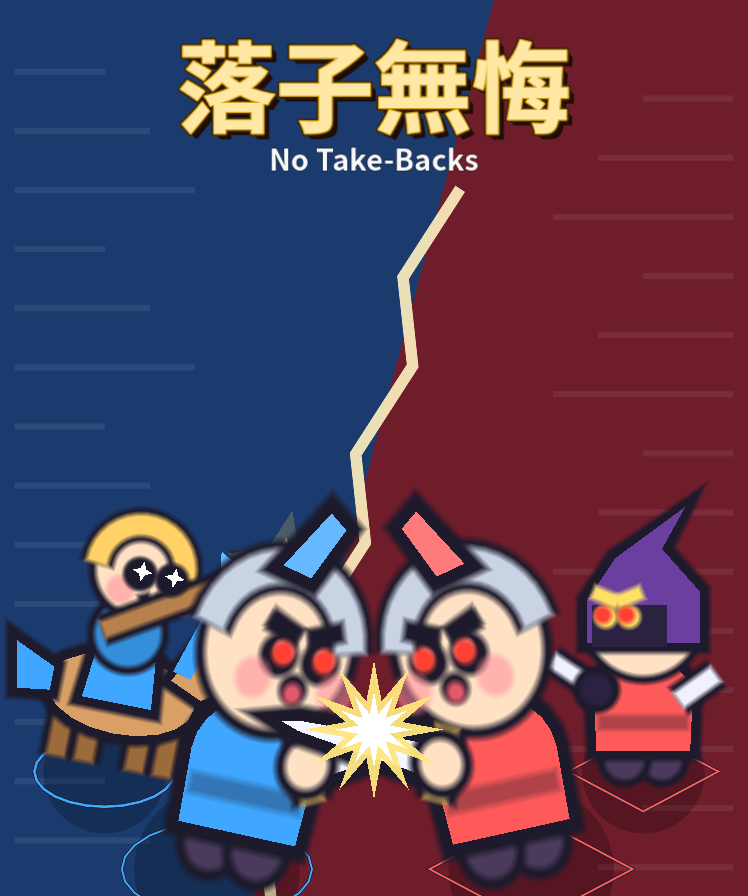
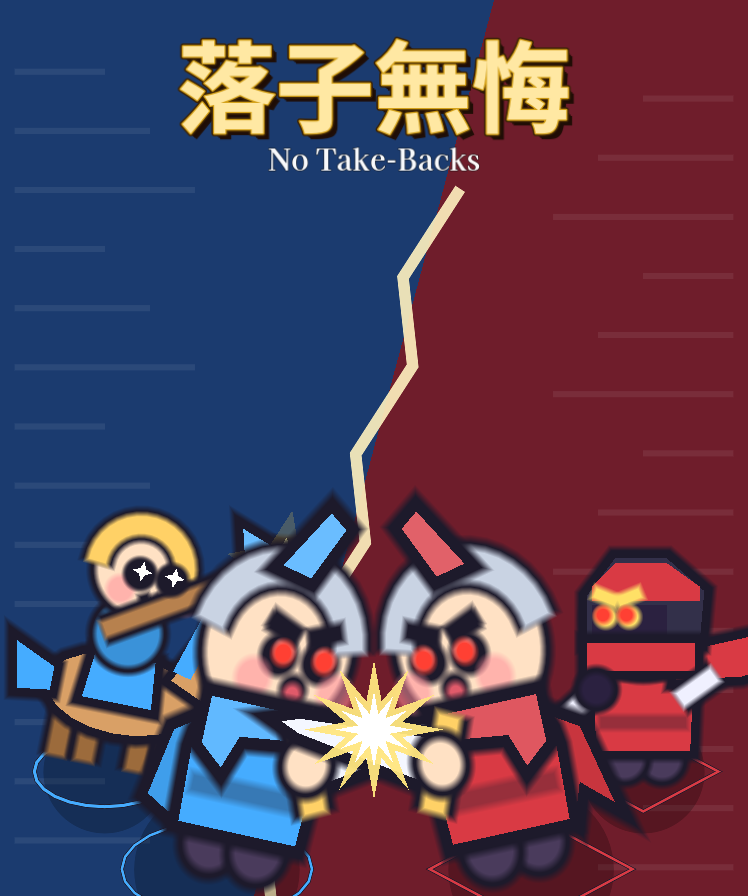
第七輪實作審查第 1 輪修正（Codex 不可）：跳轉與返回交錯、評分還原、覆盤世代、暫停跳結果、保留鍵、完整測試清單；英文標題溢出、殘局標籤；重產膠囊圖
Claude-Session: https://claude.ai/code/session_01XBTCy99wND5CaAY6MHW1Sg

diff --git a/docs/2026-11-04-grand-optimization-plan-v7.md b/docs/2026-11-04-grand-optimization-plan-v7.md
@@ -1,4 +1,4 @@
-# 《落子無悔》第七輪：綜合大優化方案（v1.0 定稿，三方兩輪，未實作）
+# 《落子無悔》第七輪：綜合大優化方案（三方兩輪定稿；實作進度見 §20）
 
 > 使用者 11/04：「列出所有能夠優化的三方討論，包括功能優化、程式碼、美化、排版、文字細節、檔案整理、角色優化……可以查資料，先不實作，給我綜合完整版大優化。」
 > 標記：〔C〕Claude、〔X〕Codex、〔G〕Antigravity、〔使用者〕。成本 S＝半天內、M＝1～2 天、L＝3 天以上。優先 P0＝上架前一定要、P1＝明顯加分、P2＝有空再做。
@@ -272,18 +272,37 @@
 
 ---
 
-## 20. 實作進度（2026-11-04）
-狀態：**方案定稿（三方兩輪），尚未實作**。使用者說「依方案做」或指定階段後開始。§18 六個決定目前採預設。
+## 20. 實作進度（2026-11-04 全部做完可自動驗的部分）
+使用者 11/04：「依你的計劃全做、做到底」，1＝順序照新建議（先做資料安全與試玩門檻）、2＝Next Fest 目標 2027 年 6 月。§18 其餘決定照預設。裁決紀錄在 `coordination/v7-impl/ledger.md`。
 
-| 階段 | 狀態 | 項目數 | 備註 |
-|---|---|---|---|
-| O0 正確性與資料安全 | 未開始 | 8 | 5 個已確認的真錯誤在這裡（R1～R6） |
-| O1 核心護欄 | 未開始 | 5 | 可和 O2 並行 |
-| O2 第一印象與看得懂 | 未開始 | 13 | 含鼓手、狂戰士、刺客 3 種角色小樣，要給使用者審 |
-| O3 文字與操作 | 未開始 | 11 | |
-| O4 有邊界的結構整理 | 未開始 | 6 | 只拆 1 個畫面當試點 |
-| O5 角色擴展與其餘門面 | 未開始 | 小樣通過後決定 | |
-| O6 出貨收斂 | 未開始 | 9 | Steam 實測仍由使用者執行 |
-| O7 發售後 | 首發不做 | 25 | |
+| 階段 | 狀態 | 內容 |
+|---|---|---|
+| 第一批（O0＋O1） | ✔ | R1～R7、N1、N2、N3、S1、S2、S3 冒煙、S5、S6、I5、J3、F1 |
+| 第二批（試玩門檻） | ✔ | E8（工具列分組、放大頭像；懸停浮窗不做）、D8、N6～N8、A4、D1、E1、A6；自由模式補上迷霧 |
+| O2 其餘 | ✔ | A9、E7、D4、D7、K3、E2、A7、C0；3 種小樣（條件 ①②③ 量過，④ 待你看，§21） |
+| O3 | ✔ | F2～F4、F7～F9、K1、N4（Steam 鍵盤沒實機驗）、B4、S7、M3（跳結果、時間軸、覆盤重算；困難 AI 仍同步） |
+| O4 | ✔ | H7、H3、H6、I1、I2、I3 |
+| O5 | ✔ | C1 其餘 7 種、C2（色盲血條標記先保留）、D2、D3、D5、A10、E9、E11、E12、A1（§6 擴大到 10 種由「做到底」授權） |
+| O6 | ◐ | 能自動做的做完：S3 完整版（Linux 待 CI）、S4 程式與文件、L1、L2 腳本與截圖、J1、J2、J5、G3 檢查；手動項目在 `docs/release/manual-checklist.md` |
+| O7 | 首發不做 | 不變；M1 歸這裡，E10 只留這裡，A10 歸 O5，G3 歸 O6 |
 
-每完成一個階段：更新本表、企劃 §22、README、記憶，回報後再進下一階段（§18-5）。
+**只有你能做**：真人試玩、Steam 帳號與 AppID、Spacewar／正式 App 測試、Steam Deck 與 Remote Play 實機、預告片錄影、GitHub repo（有了 CI 才會跑 Linux 匯出）。
+
+## 21. 第七輪實作新增與驗證
+### 21.1 計畫外新增
+| 代號 | 內容 |
+|---|---|
+| N1 | 試玩版與正式版存檔分開（`demo_` 前綴） |
+| N2 | 外部代碼驗型；120＋ 組亂填的對戰代碼、規則代碼測試 |
+| N3 | 引擎固定 4.6.2，`check_all.sh` 擋版本 |
+| N4 | 手把用 Steam 鍵盤輸入代碼 |
+| N5 | Remote Play 列入手動驗收 |
+| N6～N8 | 兵卡 `?` 不切角色、工具列三種性質分組、射程弧線標字、拿掉沒意義的中線小旗 |
+| 圖集超框 | `atlas_check` 查到長槍、法杖、高帽、斧頭一直被圖集切掉（既有 bug），格子改 192px |
+
+### 21.2 角色小樣通過條件（§6）
+工具：`tools/atlas_check.gd`（接觸表、剪影、灰階、隊伍色比例、剪影重疊率）。
+- ① 剪影：十種兩兩重疊率最高 0.84（投彈兵／盾兵），都低於 0.85 的門檻；超框 0。
+- ② 灰階：紅方壓暗後敵我明度分得開；另有腳底圓／菱形與披風形狀。
+- ③ 混戰：100%、150% 截圖看過。
+- ④ 使用者核准：**待你看**（`docs/shots-v7/`）。隊伍色比例量到 12～42%，部分低於 〔G〕 的 35% 假設，§6 寫明那是假設，這裡用實際截圖判斷。

diff --git a/coordination/v7-impl/r1.codex.out.md b/coordination/v7-impl/r1.codex.out.md
@@ -1,0 +1,15 @@
+以 HEAD 為準；下列路徑相對於 `game/`。
+
+1. **P1｜`scripts/ui/replay_view.gd:191`**：seek 尚未完成時返回／Esc，沒有清除 `seek_target`。再重播或開始下一局，`_seek_pump()` 會把新模擬快轉到舊目標；再點關鍵時刻也會被防重入直接忽略。
+
+2. **P2｜`scripts/ui/replay_view.gd:187`、`scripts/ui/battle_view.gd:1483`**：快照未保存 `ev_count`、`pt_rated`、`pt_call_tick`，重播初始化卻會重設它們。返回正式結算後，技能徽章顯示重播片段統計；已評分的同局也能再次寫入評分紀錄。
+
+3. **P2｜`scripts/ui/replay_view.gd:479`**：覆盤重算期間仍可修改／重設陣型，執行緒完成後卻無條件覆寫 `rv_result`。因此舊陣型的勝負與曲線會配上新陣型，「播放如果」播出的也不是顯示結果那場。
+
+4. **P2｜`scripts/ui/battle_view.gd:43`**：暫停後按「直接看結果」，分批計算完成只設 `result_delay=9`；下一幀被 `paused` 提前返回擋住，永遠停在戰鬥頁，直到另行解除暫停。
+
+5. **P2｜`scripts/game/keymap.gd:23`**：改鍵允許方向鍵，且翻譯套用所有畫面。將「開戰」綁左鍵後，選單中的左鍵會變成 Space、直接啟動焦點按鈕，失去方向導航；綁 Shift 則會讓畫筆修飾鍵同時觸發開戰。
+
+6. **P2｜`tests/run_tests.gd:7`**：`test_steam_v7` 已登記於 `FILES`，卻漏列 `ALL_TESTS`。CI 預設完整測試不會執行它，框架自測也只驗方法存在，仍可綠燈。比對 v7-base 的 36 個原有測試入口則無遺漏。
+
+結論：不可
